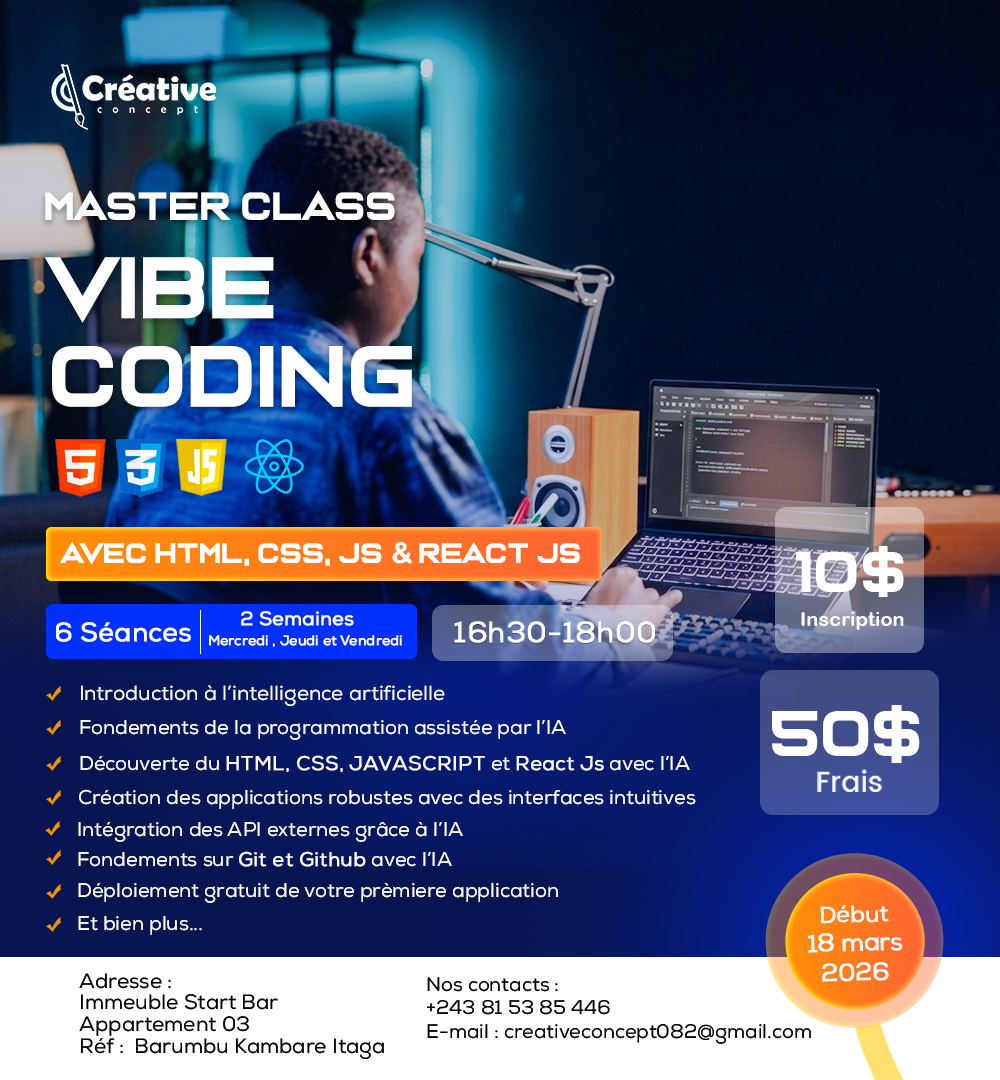
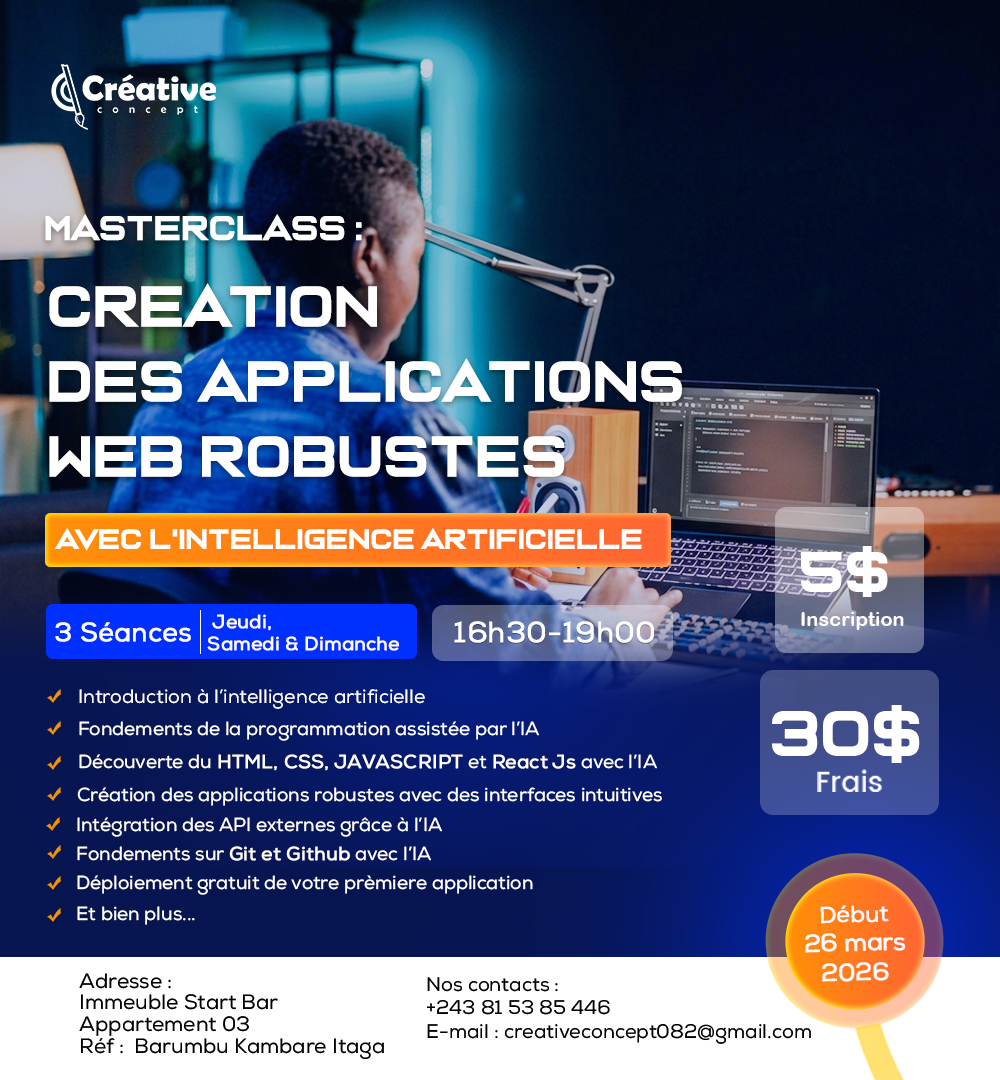
feat : Utilisation de la masterclass avec 30$

diff --git a/src/components/HeroSection.tsx b/src/components/HeroSection.tsx
@@ -24,7 +24,7 @@ export default function HeroSection() {
               className="inline-block mb-6"
             >
               <span className="bg-[#0000ff] text-white px-4 py-2 rounded-lg text-sm font-semibold">
-                NOUVELLE SESSION
+                MASTER CLASS
               </span>
             </motion.div>
 
@@ -32,11 +32,17 @@ export default function HeroSection() {
               initial={{ opacity: 0, y: 20 }}
               animate={{ opacity: 1, y: 0 }}
               transition={{ duration: 0.6, delay: 0.3 }}
-              className="text-5xl md:text-6xl lg:text-7xl font-extrabold mb-6 leading-tight text-gray-900"
+              className="font-extrabold mb-6 leading-tight"
             >
-              Master Class
-              <br />
-              <span className="text-[#0000ff]">VIBE CODING</span>
+              <span className="block text-3xl md:text-4xl lg:text-5xl text-gray-900">
+                Maîtrise la création
+              </span>
+              <span className="block text-4xl md:text-5xl lg:text-6xl text-[#0000ff] my-2">
+                des applications web robustes
+              </span>
+              <span className="block text-3xl md:text-4xl lg:text-5xl text-[#0000ff]">
+                avec l'IA
+              </span>
             </motion.h1>
 
             <motion.p
@@ -45,9 +51,8 @@ export default function HeroSection() {
               transition={{ duration: 0.6, delay: 0.4 }}
               className="text-xl text-gray-600 mb-8 leading-relaxed"
             >
-              Viens créer tes propres applications sans être expert en 6
-              séances et maîtrise les téchnologies modernes du web avec l'IA
-              pour construire ce que tu imagines.
+              Construis des applications web professionnelles dès le jour 1. 3
+              séances intensives avec l'IA pour créer ce que tu imagines.
             </motion.p>
 
             {/* Key points */}
@@ -58,7 +63,7 @@ export default function HeroSection() {
               className="space-y-4 mb-10"
             >
               {[
-                "6 séances intensives sur 2 semaines",
+                "3 séances intensives sur 1 semaine",
                 "Projets réels et portfolio professionnel",
                 "Déploiement gratuit de votre application",
               ].map((text, index) => (
@@ -133,15 +138,15 @@ export default function HeroSection() {
             >
               <div>
                 <p className="text-gray-500 mb-1">Début</p>
-                <p className="font-bold text-gray-900">18 mars 2026</p>
+                <p className="font-bold text-gray-900">26 mars 2026</p>
               </div>
               <div className="border-l border-gray-300 pl-6">
                 <p className="text-gray-500 mb-1">Durée</p>
-                <p className="font-bold text-gray-900">2 semaines</p>
+                <p className="font-bold text-gray-900">1 semaine</p>
               </div>
               <div className="border-l border-gray-300 pl-6">
                 <p className="text-gray-500 mb-1">Investissement</p>
-                <p className="font-bold text-gray-900">60$ total</p>
+                <p className="font-bold text-gray-900">35$ total</p>
               </div>
             </motion.div>
           </div>
@@ -156,7 +161,7 @@ export default function HeroSection() {
             <div className="relative rounded-3xl overflow-hidden shadow-2xl">
               <Image
                 src="/images/personnes/woman_debout.png"
-                alt="Formation VIBE CODING - Creative Concept"
+                alt="Formation Création d'Applications Web Robustes - Creative Concept"
                 width={700}
                 height={900}
                 className="w-full h-auto"

diff --git a/src/seo/config.ts b/src/seo/config.ts
@@ -2,7 +2,7 @@ export const seoConfig = {
   default: {
     title: "Creative Concept - Nous matérialisons vos idées",
     description:
-      "Creative Concept - Agence de développement web et formation en programmation à Kinshasa. Master Class VIBE CODING: HTML, CSS, JavaScript, React JS avec l'IA.",
+      "Creative Concept - Agence de développement web et formation en programmation à Kinshasa. Master Class Création d'Applications Web Robustes avec l'IA.",
     url: process.env.NEXT_PUBLIC_BASE_URL || "https://creativeconcept-rdc.com",
     siteName: "Creative Concept",
     type: "website" as const,
@@ -17,10 +17,9 @@ export const seoConfig = {
       "Congo",
       "agence web",
       "master class",
-      "VIBE CODING",
-      "Vibe",
-      "Fomation",
+      "applications web robustes",
       "intelligence artificielle",
+      "IA",
     ],
     locale: "fr_FR",
     icons: {
@@ -28,8 +27,8 @@ export const seoConfig = {
     },
     authors: [{ name: "Creative Concept" }],
     images: {
-      url: "/images/opengraph/opengraph_hero.png",
-      alt: "Creative Concept - Master Class VIBE CODING",
+      url: "/images/opengraph/opengraph_hero.webp",
+      alt: "Creative Concept - Master Class Création d'Applications Web Robustes",
     },
     twitter: {
       card: "summary_large_image",
@@ -38,22 +37,24 @@ export const seoConfig = {
     },
   },
   inscription: {
-    title: "Inscription Master Class VIBE CODING - Creative Concept",
+    title:
+      "Inscription Master Class Création d'Applications Web Robustes - Creative Concept",
     description:
-      "Inscrivez-vous à la Master Class VIBE CODING à Kinshasa. Formation intensive en développement web: HTML5, CSS3, JavaScript ES6+, React JS. 6 séances sur 2 semaines. Début: 18 mars 2026.",
+      "Inscrivez-vous à la Master Class à Kinshasa. Formation intensive en développement web avec l'IA. 3 séances sur 1 semaine. Début: 26 mars 2026. 35$ total.",
     keywords: [
       "inscription formation",
-      "master class vibe coding",
+      "master class développement web",
       "formation développement web Kinshasa",
       "apprendre programmation",
       "HTML CSS JavaScript React",
       "formation intensive",
       "Creative Concept",
       "Kinshasa RDC",
+      "intelligence artificielle",
     ],
     image: {
-      url: "/images/opengraph/opengraph_form.png",
-      alt: "Inscription Master Class VIBE CODING - Creative Concept",
+      url: "/images/opengraph/opengraph_form.webp",
+      alt: "Inscription Master Class Création d'Applications Web Robustes - Creative Concept",
     },
   },
 };

diff --git a/src/components/AboutSection.tsx b/src/components/AboutSection.tsx
@@ -53,7 +53,7 @@ export default function AboutSection() {
           {/* Infos formation côté droit */}
           <div>
             <div className="inline-block bg-linear-to-r from-[#ffa500] to-[#ff8c00] text-white px-5 py-2 rounded-full text-sm font-semibold mb-6">
-              MASTER CLASS VIBE CODING
+              MASTER CLASS CRÉATION D'APPLICATIONS WEB ROBUSTES
             </div>
             <h3 className="text-4xl md:text-5xl font-bold text-gray-900 mb-8">
               HTML, CSS, JavaScript & React avec L'IA
@@ -66,10 +66,10 @@ export default function AboutSection() {
                 </div>
                 <div>
                   <p className="font-bold text-gray-900 text-base">
-                    6 Séances - 2 Semaines
+                    3 Séances - 1 Semaine
                   </p>
                   <p className="text-gray-600 text-sm">
-                    Mercredi, Jeudi et Vendredi
+                    Jeudi, Samedi et Dimanche
                   </p>
                 </div>
               </div>
@@ -80,9 +80,9 @@ export default function AboutSection() {
                 </div>
                 <div>
                   <p className="font-bold text-gray-900 text-base">
-                    16h30 - 18h00
+                    16h30 - 19h00
                   </p>
-                  <p className="text-gray-600 text-sm">Sessions de 1h30</p>
+                  <p className="text-gray-600 text-sm">Sessions de 2h30</p>
                 </div>
               </div>
 
@@ -91,9 +91,9 @@ export default function AboutSection() {
                   <FaDollarSign className="text-[#ffa500] text-xl" />
                 </div>
                 <div>
-                  <p className="font-bold text-gray-900 text-base">10$ + 50$</p>
+                  <p className="font-bold text-gray-900 text-base">5$ + 30$</p>
                   <p className="text-gray-600 text-sm">
-                    Total: 60$ - Paiement flexible
+                    Total: 35$ - Paiement flexible
                   </p>
                 </div>
               </div>
@@ -122,7 +122,7 @@ export default function AboutSection() {
               </div>
               <div>
                 <p className="font-bold text-gray-900 text-lg">
-                  Début: 18 mars 2026
+                  Début: 26 mars 2026
                 </p>
                 <p className="text-orange-700 font-semibold">
                   ⚡ Places limitées - Inscrivez-vous vite !

diff --git a/src/components/CTASection.tsx b/src/components/CTASection.tsx
@@ -8,7 +8,7 @@ import { motion } from "framer-motion";
 export default function CTASection() {
   const whatsappNumber = "243815385446";
   const whatsappMessage = encodeURIComponent(
-    "Bonjour Creative Concept ! Je suis intéressé par la Master Class VIBE CODING.",
+    "Bonjour Creative Concept ! Je suis intéressé par la Master Class Création des Applications Web Robustes.",
   );
   const whatsappLink = `https://wa.me/${whatsappNumber}?text=${whatsappMessage}`;
 
@@ -49,8 +49,8 @@ export default function CTASection() {
           transition={{ duration: 0.6, delay: 0.2 }}
           className="text-lg md:text-xl text-white/90 mb-10 max-w-2xl mx-auto"
         >
-          Rejoignez notre Master Class VIBE CODING et devenez un développeur web
-          professionnel en seulement 2 semaines !
+          Rejoignez notre Master Class et devenez un développeur web
+          professionnel en seulement 1 semaine !
         </motion.p>
 
         <motion.div
@@ -88,9 +88,9 @@ export default function CTASection() {
           className="grid grid-cols-2 md:grid-cols-4 gap-8 mt-16 max-w-3xl mx-auto"
         >
           {[
-            { value: "130+", label: "Étudiants" },
-            { value: "6", label: "Séances" },
-            { value: "2", label: "Semaines" },
+            { value: "100+", label: "Étudiants" },
+            { value: "3", label: "Séances" },
+            { value: "1", label: "Semaine" },
             { value: "100%", label: "Pratique" },
           ].map((stat, index) => (
             <motion.div

diff --git a/app/layout.tsx b/app/layout.tsx
@@ -2,7 +2,6 @@ import { Montserrat } from "next/font/google";
 import "./globals.css";
 import { generateMetadata } from "@/src/seo/generateMetadata";
 import ToastProvider from "@/src/components/ToastProvider";
-import { seoConfig } from "@/src/seo/config";
 
 const montserrat = Montserrat({
   variable: "--font-montserrat",
@@ -11,9 +10,9 @@ const montserrat = Montserrat({
 });
 
 export const metadata = generateMetadata({
-  title: "Creative Concept - Master Class VIBE CODING",
+  title: "Creative Concept - Master Class Création d'Applications Web Robustes",
   description:
-    "Formation intensive en développement web avec HTML, CSS, JavaScript et React. Apprenez à créer des applications modernes avec l'IA. Inscription 10$, Formation 50$. Début: 18 mars 2026.",
+    "Formation intensive en développement web avec l'IA. Apprenez à créer des applications modernes. 35$ pour 3 séances. Début: 26 mars 2026.",
   Keywords: [
     "Creative Concept",
     "formation développement web",
@@ -24,9 +23,13 @@ export const metadata = generateMetadata({
     "programmation",
     "coding",
     "master class",
-    "VIBE CODING",
+    "applications web robustes",
     "intelligence artificielle",
   ],
+  image: {
+    url: "/images/opengraph/opengraph_hero.webp",
+    alt: "Creative Concept - Master Class Création d'Applications Web Robustes",
+  },
 });
 
 export default function RootLayout({

diff --git a/src/components/MasterClassSection.tsx b/src/components/MasterClassSection.tsx
@@ -12,11 +12,11 @@ export default function MasterClassSection() {
             PROGRAMME DE FORMATION
           </div>
           <h2 className="text-4xl md:text-5xl lg:text-6xl font-bold text-gray-900 mb-6">
-            Master Class VIBE CODING
+            Master Class Création d'Applications Web Robustes
           </h2>
           <p className="text-xl text-gray-600 max-w-3xl mx-auto">
-            Un programme complet pour maîtriser le développement web moderne de
-            A à Z
+            Un programme complet pour maîtriser le développement web moderne
+            avec l'Intelligence Artificielle
           </p>
         </div>
 
@@ -25,7 +25,7 @@ export default function MasterClassSection() {
           <div className="relative rounded-3xl overflow-hidden shadow-2xl hover:shadow-3xl transition-all duration-500 hover:scale-[1.02]">
             <Image
               src="/images/formation/affiche_vibe_coding.webp"
-              alt="Master Class VIBE CODING - Creative Concept"
+              alt="Master Class Création d'Applications Web Robustes - Creative Concept"
               width={1080}
               height={1080}
               className="w-full h-auto"

diff --git a/src/constants/contact.ts b/src/constants/contact.ts
@@ -12,7 +12,7 @@ export const CONTACT_INFO = {
   whatsapp: {
     number: "243815385446",
     defaultMessage:
-      "Bonjour Creative Concept ! Je suis intéressé par la Master Class VIBE CODING.",
+      "Bonjour Creative Concept ! Je suis intéressé par la Master Class Création d'Applications Web Robustes.",
   },
   social: {
     facebook: "https://www.facebook.com/Artconceptcreatif",
@@ -22,20 +22,20 @@ export const CONTACT_INFO = {
 };
 
 export const FORMATION_INFO = {
-  name: "Master Class VIBE CODING",
-  duration: "2 semaines",
-  sessions: 6,
+  name: "Master Class Création d'Applications Web Robustes",
+  duration: "1 semaine",
+  sessions: 3,
   schedule: {
-    days: ["Mercredi", "Jeudi", "Vendredi"],
-    time: "16h30 - 18h00",
+    days: ["Jeudi", "Samedi", "Dimanche"],
+    time: "16h30 - 19h00",
   },
   pricing: {
-    inscription: 10,
-    formation: 50,
-    total: 60,
+    inscription: 5,
+    formation: 30,
+    total: 35,
     currency: "$",
   },
-  startDate: "18 mars 2026",
+  startDate: "26 mars 2026",
   studentsCount: 130,
 };
 

diff --git a/src/components/Footer.tsx b/src/components/Footer.tsx
@@ -125,8 +125,8 @@ export default function Footer() {
               <p className="text-sm font-semibold text-gray-900 mb-2">
                 Horaires de formation :
               </p>
-              <p className="text-sm text-gray-600">Mercredi, Jeudi, Vendredi</p>
-              <p className="text-sm text-gray-600">16h30 - 18h00</p>
+              <p className="text-sm text-gray-600">Jeudi, Samedi, Dimanche</p>
+              <p className="text-sm text-gray-600">16h30 - 19h00</p>
             </div>
           </div>
         </div>

diff --git a/app/inscription/page.tsx b/app/inscription/page.tsx
@@ -53,9 +53,7 @@ export default function InscriptionPage() {
               Retour à l'accueil
             </Link>
             <h1 className="text-4xl md:text-5xl font-bold text-gray-900 mb-4">
-              Inscription Master Class
-              <br />
-              <span className="text-[#0000ff]">VIBE CODING</span>
+              Inscription à la Master Class
             </h1>
           </div>
 
